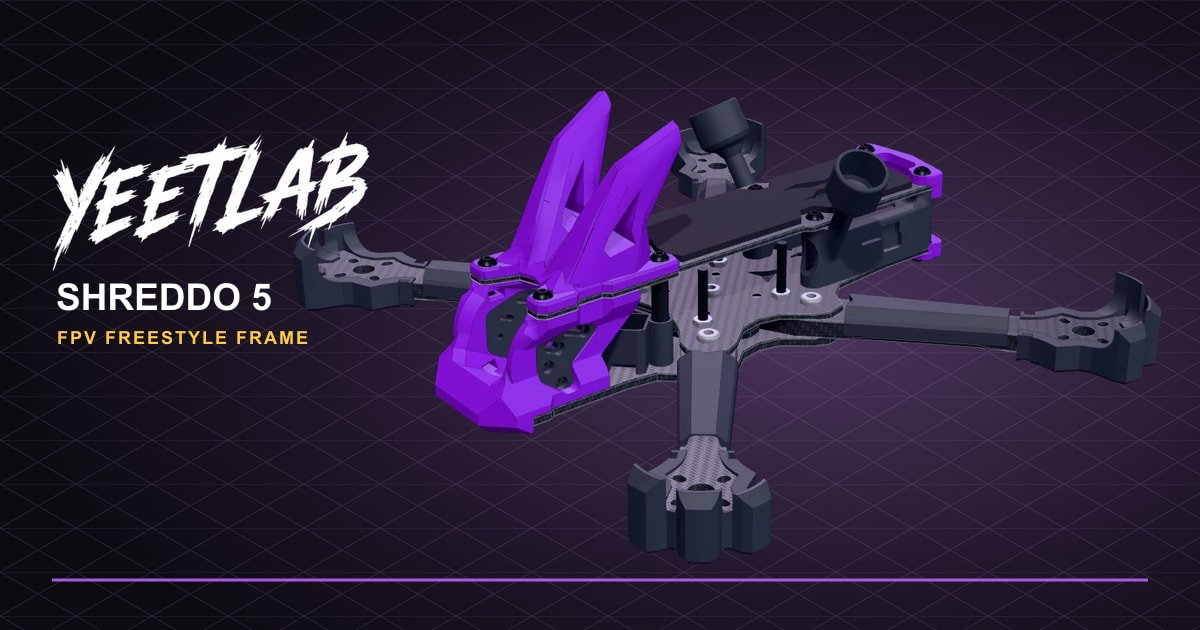
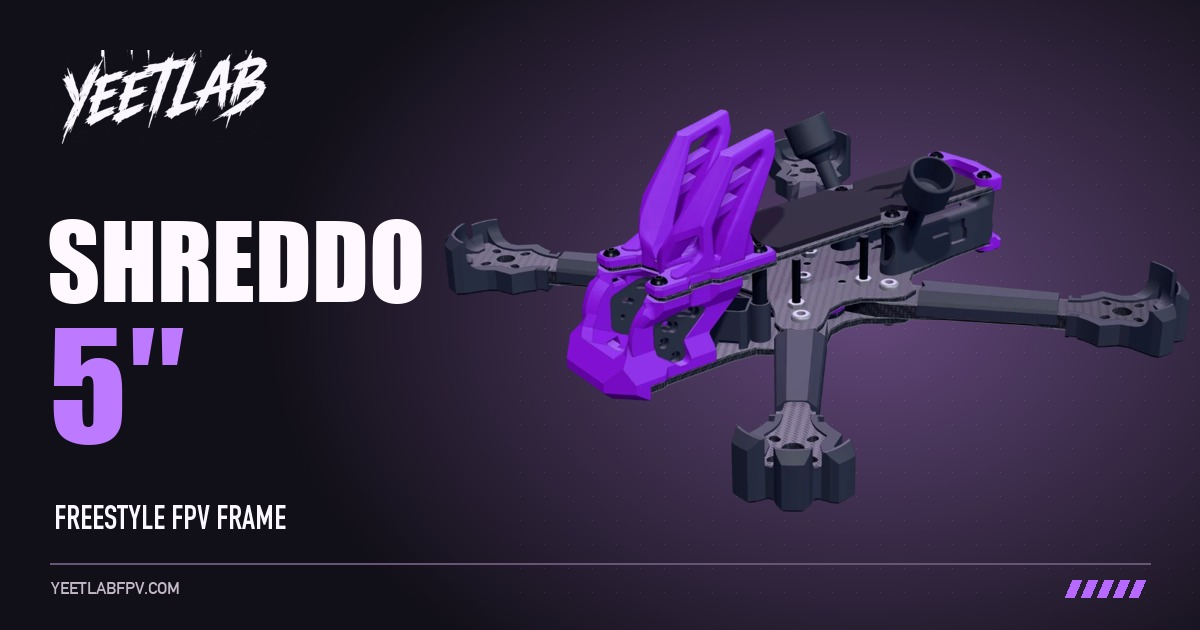
Refresh Shreddo share card, hero title and scroll cue

Changed region(s): [[0.0308, 0.0302, 1.0, 0.9651], [0.0308, 0.0905, 0.2467, 0.2111], [0.0308, 0.7841, 0.2467, 0.8444]]

diff --git a/src/shreddo-hero.css b/src/shreddo-hero.css
@@ -23,7 +23,14 @@
 }
 
 .shreddo-stage h1 {
-  font-size: clamp(2.5rem, 5.3vw, 6rem);
+  font-size: 2.5rem;
+}
+
+.shreddo-title-size {
+  display: block;
+  color: #bd79ff;
+  font-size: 1.3em;
+  margin-block-start: .08em;
 }
 
 .shreddo-media {
@@ -84,23 +91,50 @@
 }
 
 .shreddo-scroll-hint [data-arrow] {
+  display: inline-block;
   margin-left: .35em;
   color: var(--yellow);
+}
+
+.shreddo-visual {
+  position: relative;
+}
+
+.shreddo-visual > .shreddo-scroll-hint {
+  position: absolute;
+  inset: auto 0 max(16px, 6%);
+  margin: 0;
+}
+
+@media (prefers-reduced-motion: no-preference) {
+  .has-shreddo-model:not([data-exploded]) .shreddo-scroll-hint [data-assembled] [data-arrow] {
+    animation: shreddo-scroll-nudge 1.8s ease-in-out infinite;
+  }
+}
+
+@keyframes shreddo-scroll-nudge {
+  0%, 100% { transform: translateY(0); }
+  50% { transform: translateY(5px); }
 }
 
 @media (min-width: 1000px) {
   .shreddo-stage {
     grid-template-columns: minmax(0, 4fr) minmax(0, 8fr);
-    align-content: start;
-    padding-block: 8px 24px;
+    align-content: center;
+    padding-block: 16px;
     background:
       radial-gradient(ellipse at 74% 38%, #35333f 0, #23232c 36%, transparent 70%),
       linear-gradient(115deg, #0d0c10, #18181e 88%);
   }
 
-  .shreddo-stage .hero-copy,
-  .shreddo-visual {
-    transform: translateY(clamp(-46px, -3vw, -30px));
+  .shreddo-stage h1 {
+    font-size: 3.75rem;
+  }
+}
+
+@media (min-width: 1400px) {
+  .shreddo-stage h1 {
+    font-size: 4.75rem;
   }
 }
 
@@ -123,12 +157,12 @@
     justify-self: center;
   }
 
-  .shreddo-scroll-hint {
-    margin-top: -7%;
+  .shreddo-stage h1 {
+    font-size: 2.15rem;
   }
 
-  .shreddo-stage h1 {
-    font-size: clamp(2.15rem, 8vw, 3.5rem);
+  .shreddo-title-size {
+    display: inline;
   }
 
   .shreddo-stage .hero-copy p:not(.eyebrow) {

diff --git a/index.html b/index.html
@@ -41,7 +41,7 @@
       rel="stylesheet"
     >
     <link rel="stylesheet" href="styles.css?v=compact-specs">
-    <link rel="stylesheet" href="src/shreddo-hero.css?v=mouse-orbit">
+    <link rel="stylesheet" href="src/shreddo-hero.css?v=scroll-hint">
     <script type="application/ld+json">
       {
         "@context": "https://schema.org",
@@ -97,7 +97,7 @@
         <div class="shreddo-stage">
           <div class="hero-copy">
             <p class="eyebrow">Shreddo 5 / FPV freestyle frame</p>
-            <h1>Shreddo 5</h1>
+            <h1>Shreddo <span class="shreddo-title-size">5″</span></h1>
             <p>
               Alien-sauce durability for pilots who hit concrete for fun. The
               Shreddo 5 is built as your last 5-inch freestyle frame: brutally
